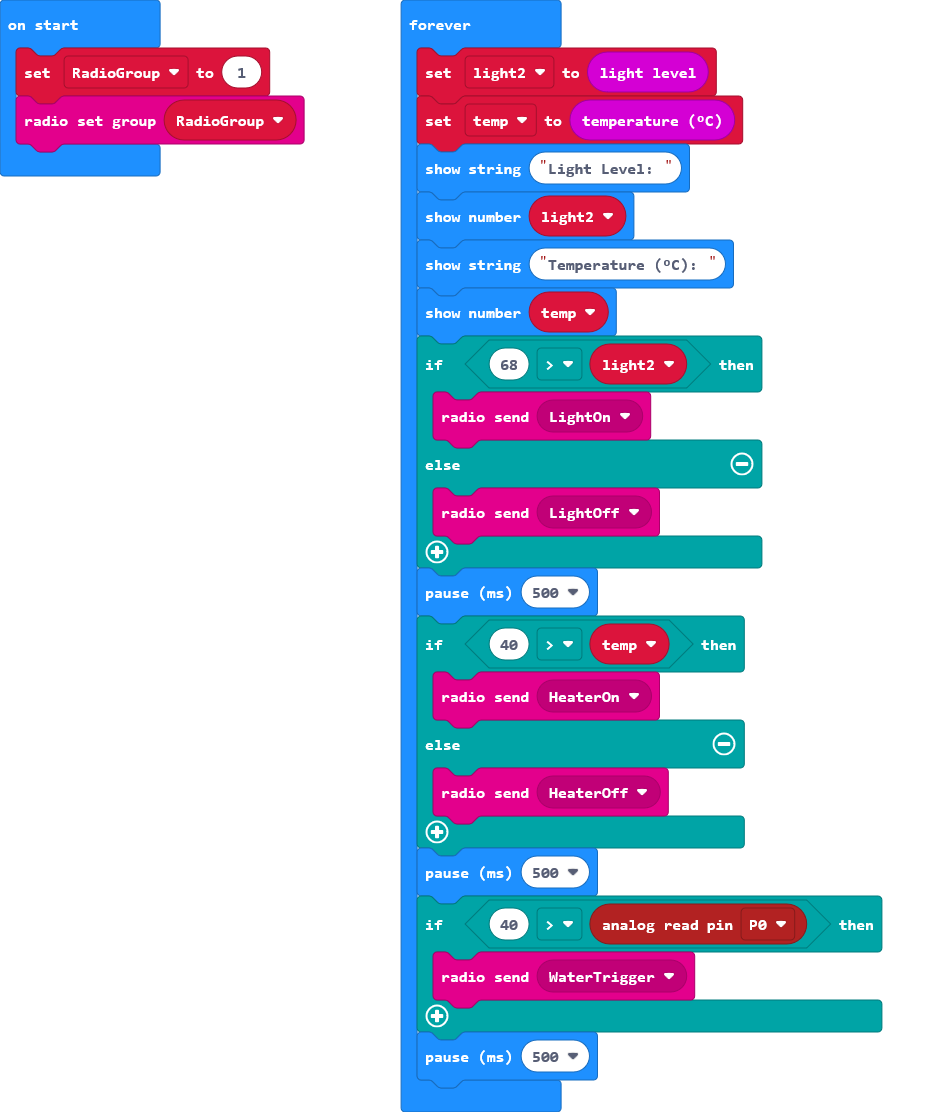
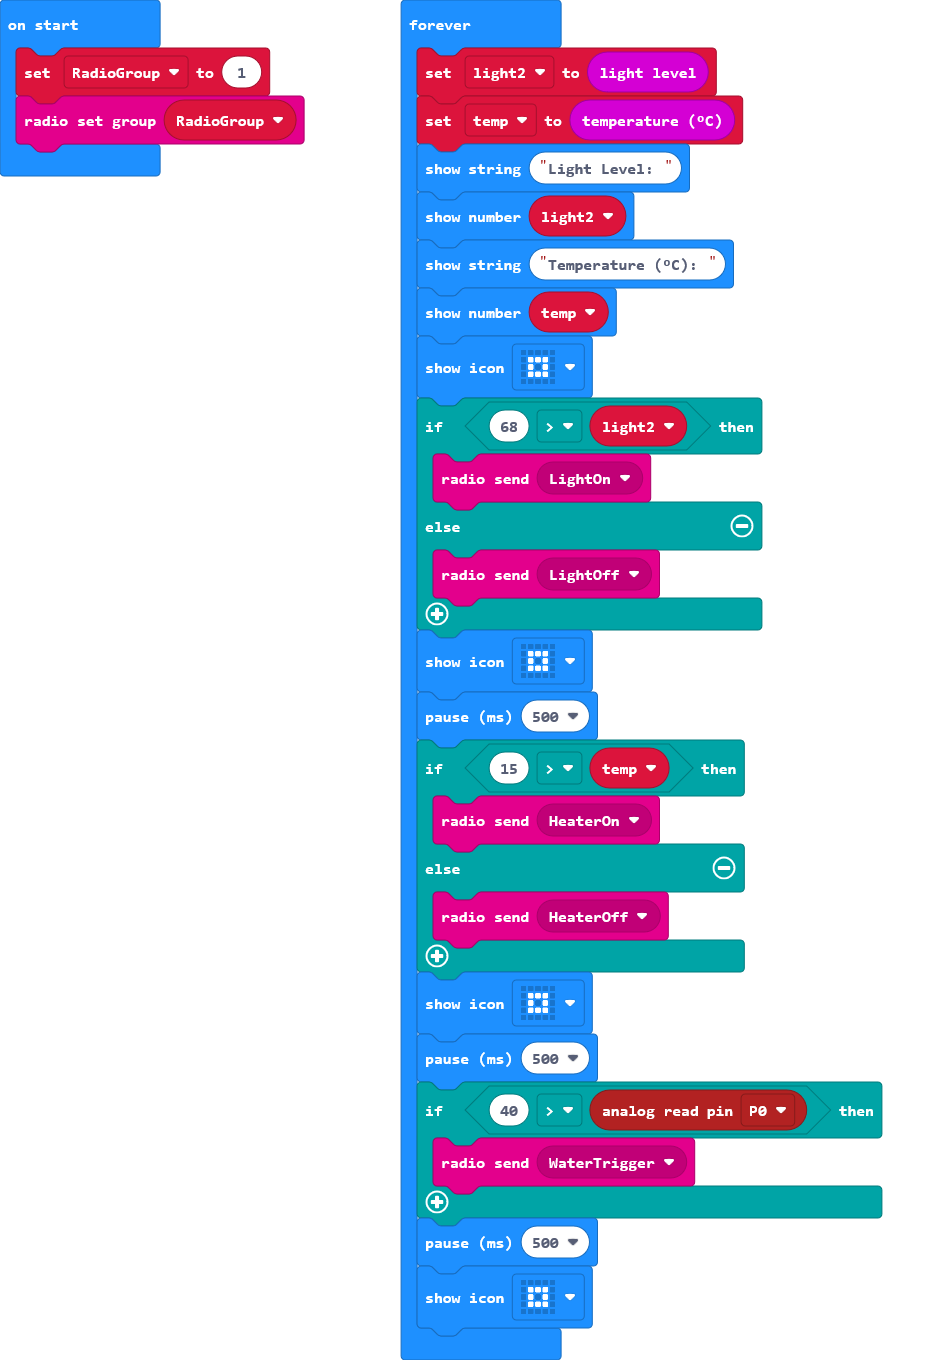
Update main.blocks, main.ts

Changed region(s): [[0.4347, 0.0, 0.9625, 0.9784], [0.0, 0.0, 0.3415, 0.1835]]

diff --git a/main.ts b/main.ts
@@ -18,20 +18,24 @@ basic.forever(function () {
     basic.showNumber(light2)
     basic.showString("Temperature (°C): ")
     basic.showNumber(temp)
+    basic.showIcon(IconNames.SmallSquare)
     if (68 > light2) {
         radio.sendMessage(RadioMessage.LightOn)
     } else {
         radio.sendMessage(RadioMessage.LightOff)
     }
+    basic.showIcon(IconNames.SmallSquare)
     basic.pause(500)
-    if (40 > temp) {
+    if (15 > temp) {
         radio.sendMessage(RadioMessage.HeaterOn)
     } else {
         radio.sendMessage(RadioMessage.HeaterOff)
     }
+    basic.showIcon(IconNames.SmallSquare)
     basic.pause(500)
     if (40 > pins.analogReadPin(AnalogPin.P0)) {
         radio.sendMessage(RadioMessage.WaterTrigger)
     }
     basic.pause(500)
+    basic.showIcon(IconNames.SmallSquare)
 })
